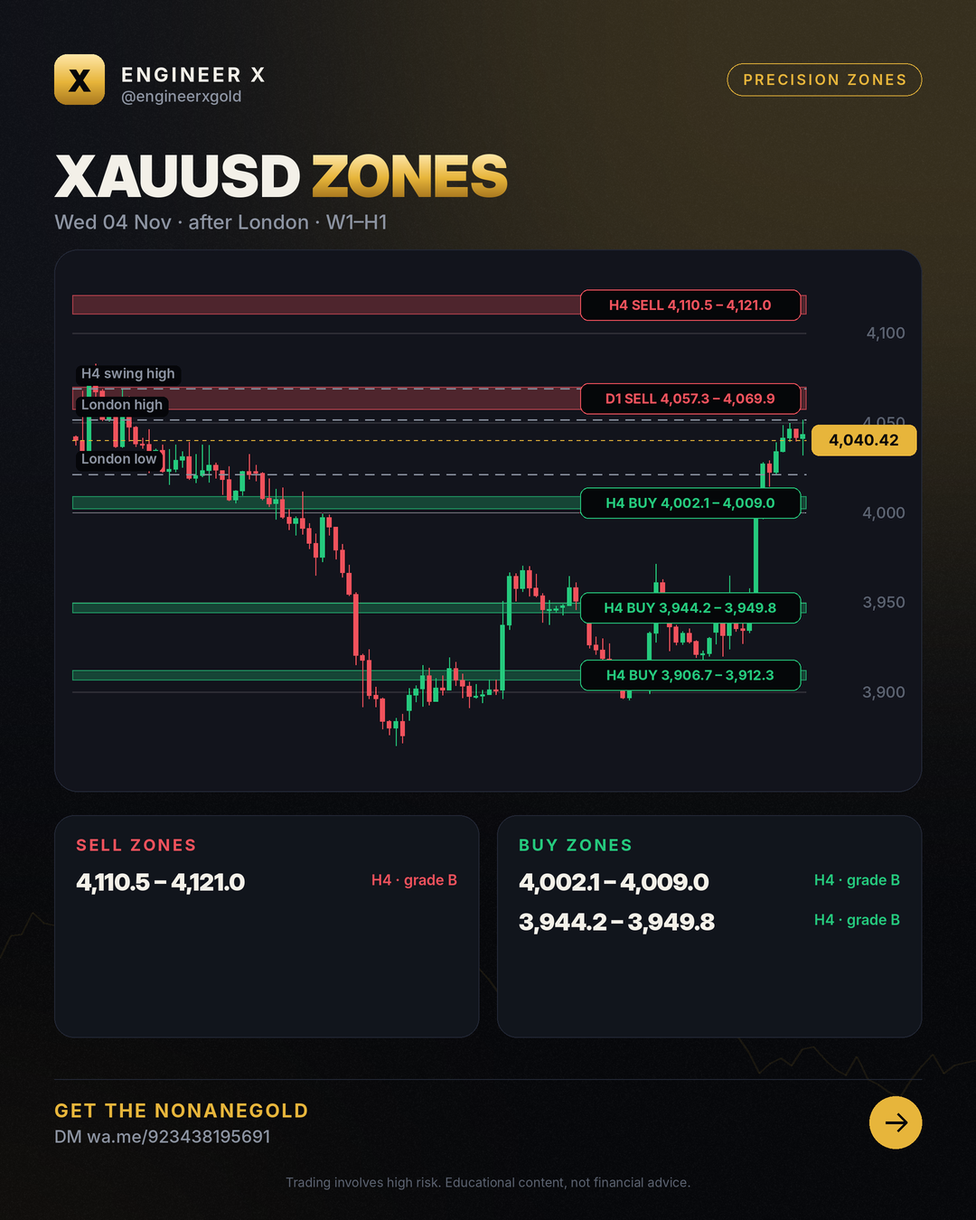
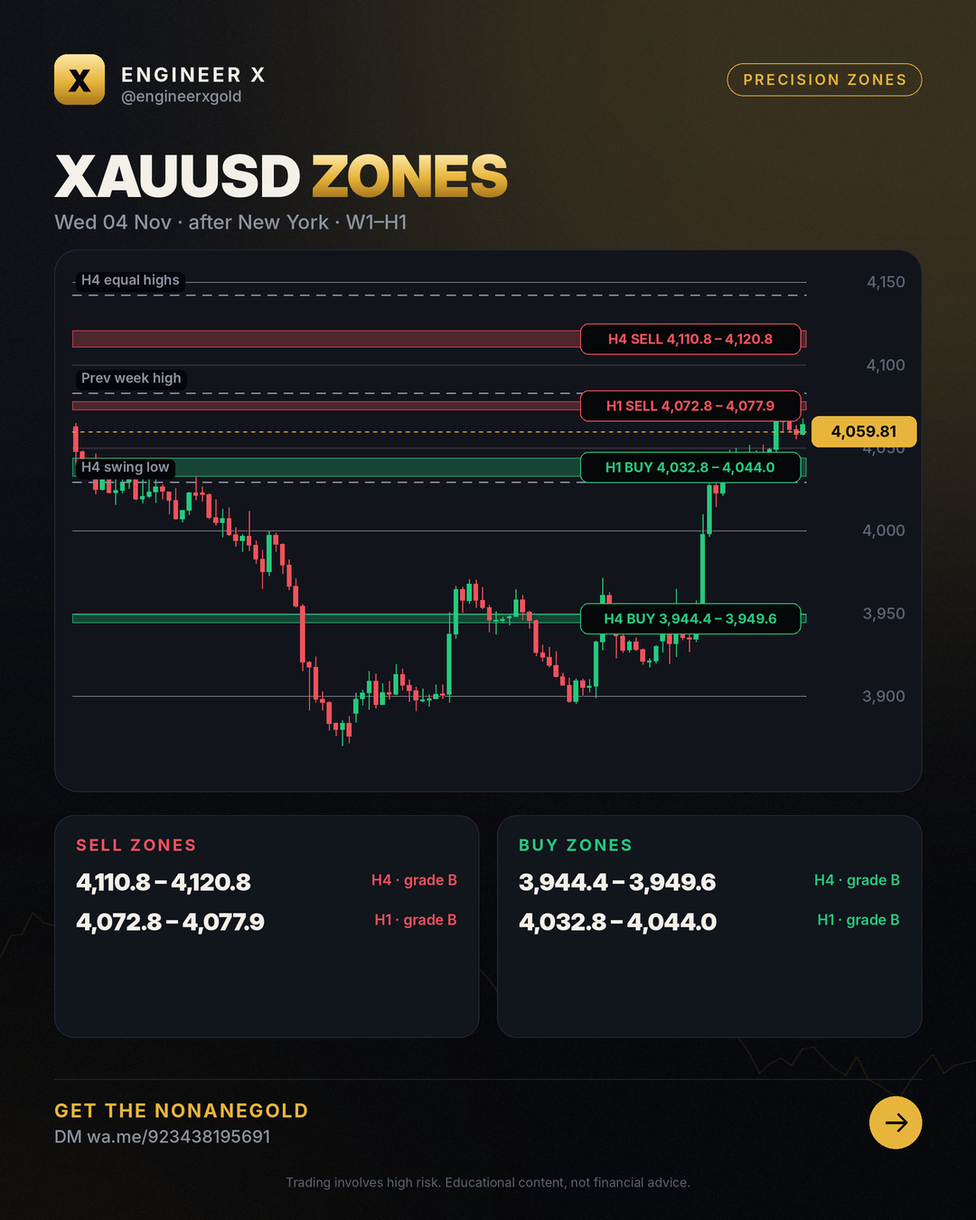
zones 2026-11-04 Wed 04 Nov · after New York · W1–H1

diff --git a/zones/index.html b/zones/index.html
@@ -4,7 +4,7 @@
 <meta charset="utf-8">
 <meta name="viewport" content="width=device-width,initial-scale=1">
 <title>XAUUSD Zones Today – Buy &amp; Sell Zones (H4, H1) | Engineer X</title>
-<meta name="description" content="XAUUSD buy and sell zones for 2026-11-04: tested W1, D1, H4 and H1 zones with invalidation levels, updated after the Asian, London and New York sessions. Price 4,040.42.">
+<meta name="description" content="XAUUSD buy and sell zones for 2026-11-04: tested W1, D1, H4 and H1 zones with invalidation levels, updated after the Asian, London and New York sessions. Price 4,059.81.">
 <meta name="robots" content="index,follow,max-image-preview:large,max-snippet:-1,max-video-preview:-1">
 <meta name="author" content="Engr. M Ahmad Mehmood">
 <link rel="canonical" href="https://engineerxgold.github.io/zones/">
@@ -12,7 +12,7 @@
 <link rel="apple-touch-icon" href="../img/logo.png">
 <meta property="og:site_name" content="Engineer X">
 <meta property="og:title" content="XAUUSD Zones Today – Buy &amp; Sell Zones (H4, H1) | Engineer X">
-<meta property="og:description" content="XAUUSD buy and sell zones for 2026-11-04: tested W1, D1, H4 and H1 zones with invalidation levels, updated after the Asian, London and New York sessions. Price 4,040.42.">
+<meta property="og:description" content="XAUUSD buy and sell zones for 2026-11-04: tested W1, D1, H4 and H1 zones with invalidation levels, updated after the Asian, London and New York sessions. Price 4,059.81.">
 <meta property="og:type" content="website">
 <meta property="og:url" content="https://engineerxgold.github.io/zones/">
 <meta property="og:image" content="https://engineerxgold.github.io/zones/img/2026-11-04.png">
@@ -22,7 +22,7 @@
 <meta property="og:locale" content="en_US">
 <meta name="twitter:card" content="summary_large_image">
 <meta name="twitter:title" content="XAUUSD Zones Today – Buy &amp; Sell Zones (H4, H1) | Engineer X">
-<meta name="twitter:description" content="XAUUSD buy and sell zones for 2026-11-04: tested W1, D1, H4 and H1 zones with invalidation levels, updated after the Asian, London and New York sessions. Price 4,040.42.">
+<meta name="twitter:description" content="XAUUSD buy and sell zones for 2026-11-04: tested W1, D1, H4 and H1 zones with invalidation levels, updated after the Asian, London and New York sessions. Price 4,059.81.">
 <meta name="twitter:image" content="https://engineerxgold.github.io/zones/img/2026-11-04.png">
 <meta name="twitter:image:alt" content="XAUUSD Zones Today – Buy &amp; Sell Zones (H4, H1) | Engineer X">
 
@@ -101,7 +101,7 @@ footer .fl a{color:var(--muted);margin-right:16px}
 <div class="wrap">
 <nav><a class="logo" href="../"><b>X</b>Engineer X</a>
 <div class="links"><a href="../zones/">Daily Zones</a><a href="../blog/">Learn</a><a href="../ea/">Gold EA</a><a href="../about/">About</a><a class="cta" href="https://wa.me/923438195691">Get the EA</a></div></nav>
-<section class="hero"><span class="chip">Updated Wed 04 Nov · after London · W1–H1</span><h1>XAUUSD <span class="gold">precision zones</span></h1><p>XAUUSD buy and sell zones for 2026-11-04: tested W1, D1, H4 and H1 zones with invalidation levels, updated after the Asian, London and New York sessions. Price 4,040.42.</p></section><img src="img/2026-11-04.png" alt="Latest XAUUSD zone map" width="1080" height="1350"><section><h2>Current zones</h2><div style="overflow-x:auto"><table style="width:100%;border-collapse:collapse;font-size:15px"><tr><th align=left>Zone</th><th align=left>Price band</th><th>Grade</th><th align=left>Invalid</th><th align=left>Why</th></tr><tr><td>D1 sell</td><td><b>4,057.33 – 4,069.94</b></td><td>B</td><td>above 4,071.80</td><td>MSNR resistance levels (fresh): D OCL 4060.13, D A 4067.14, 1H A 4062.57, 30m GAP 4062.57, 30m A 4066.13, 15m A 4062.57. Wrong if price trades above 4071.80.; C</td></tr><tr><td>H4 sell</td><td><b>4,110.54 – 4,121.03</b></td><td>B</td><td>above 4,122.89</td><td>MSNR resistance levels (fresh): 4H GAP 4113.34, 1H OCL 4115.24, 1H A 4116.26, 30m A 4118.23. Wrong if price trades above 4122.89.; Confluence score 3: MSNR + IC</td></tr><tr><td>H4 buy</td><td><b>4,002.12 – 4,008.98</b></td><td>B</td><td>below 4,000.26</td><td>MSNR support levels (fresh): 4H RBS 4004.92, 15m GAP 4006.18. Wrong if price trades below 4000.26.; Confluence score 2: MSNR + ICT</td></tr><tr><td>H4 buy</td><td><b>3,944.20 – 3,949.80</b></td><td>B</td><td>below 3,942.34</td><td>MSNR support level (fresh): 4H GAP 3947.00. Wrong if price trades below 3942.34.; Confluence score 2: MSNR + ICT</td></tr><tr><td>H4 buy</td><td><b>3,906.69 – 3,912.29</b></td><td>B</td><td>below 3,904.83</td><td>MSNR support level (fresh): 4H V 3909.49. Wrong if price trades below 3904.83.; Confluence score 2: MSNR + SMC</td></tr></table></div></section><section><h2>Honest scorecard</h2><div class="grid"><div class="card"><div class="n">237</div><p>zones published (30 days)</p></div><div class="card"><div class="n">125</div><p>held (moved 1 hourly ATR away)</p></div><div class="card"><div class="n">24</div><p>broke (traded beyond the invalidation)</p></div><div class="card"><div class="n">84%</div><p>hold rate of decided zones</p></div></div></section><div class="ctabox"><h3>🤖 Trade the zones with the NonaneGold</h3><p>Free signals group access + setup help Message us and we will help you set it up.</p><div class="btns"><a class="btn gold" href="https://wa.me/923438195691">Get the EA on Telegram</a><a class="btn ghost" href="../ea/">About the EA</a></div></div><section><h2>Archive</h2><div class="grid posts"><a class="card" href="2026-11-04/"><span class="date">2026-11-04</span><h3>XAUUSD zones 2026-11-04</h3></a><a class="card" href="2026-11-03/"><span class="date">2026-11-03</span><h3>XAUUSD zones 2026-11-03</h3></a><a class="card" href="2026-11-02/"><span class="date">2026-11-02</span><h3>XAUUSD zones 2026-11-02</h3></a><a class="card" href="2026-10-30/"><span class="date">2026-10-30</span><h3>XAUUSD zones 2026-10-30</h3></a><a class="card" href="2026-10-29/"><span class="date">2026-10-29</span><h3>XAUUSD zones 2026-10-29</h3></a><a class="card" href="2026-10-28/"><span class="date">2026-10-28</span><h3>XAUUSD zones 2026-10-28</h3></a><a class="card" href="2026-10-27/"><span class="date">2026-10-27</span><h3>XAUUSD zones 2026-10-27</h3></a><a class="card" href="2026-10-26/"><span class="date">2026-10-26</span><h3>XAUUSD zones 2026-10-26</h3></a><a class="card" href="2026-10-23/"><span class="date">2026-10-23</span><h3>XAUUSD zones 2026-10-23</h3></a><a class="card" href="2026-10-22/"><span class="date">2026-10-22</span><h3>XAUUSD zones 2026-10-22</h3></a><a class="card" href="2026-10-21/"><span class="date">2026-10-21</span><h3>XAUUSD zones 2026-10-21</h3></a><a class="card" href="2026-10-20/"><span class="date">2026-10-20</span><h3>XAUUSD zones 2026-10-20</h3></a><a class="card" href="2026-10-19/"><span class="date">2026-10-19</span><h3>XAUUSD zones 2026-10-19</h3></a><a class="card" href="2026-10-16/"><span class="date">2026-10-16</span><h3>XAUUSD zones 2026-10-16</h3></a><a class="card" href="2026-10-15/"><span class="date">2026-10-15</span><h3>XAUUSD zones 2026-10-15</h3></a><a class="card" href="2026-10-14/"><span class="date">2026-10-14</span><h3>XAUUSD zones 2026-10-14</h3></a><a class="card" href="2026-10-13/"><span class="date">2026-10-13</span><h3>XAUUSD zones 2026-10-13</h3></a></div></section>
+<section class="hero"><span class="chip">Updated Wed 04 Nov · after New York · W1–H1</span><h1>XAUUSD <span class="gold">precision zones</span></h1><p>XAUUSD buy and sell zones for 2026-11-04: tested W1, D1, H4 and H1 zones with invalidation levels, updated after the Asian, London and New York sessions. Price 4,059.81.</p></section><img src="img/2026-11-04.png" alt="Latest XAUUSD zone map" width="1080" height="1350"><section><h2>Current zones</h2><div style="overflow-x:auto"><table style="width:100%;border-collapse:collapse;font-size:15px"><tr><th align=left>Zone</th><th align=left>Price band</th><th>Grade</th><th align=left>Invalid</th><th align=left>Why</th></tr><tr><td>H4 sell</td><td><b>4,110.78 – 4,120.79</b></td><td>B</td><td>above 4,122.50</td><td>MSNR resistance levels (fresh): 4H GAP 4113.34, 1H OCL 4115.24, 1H A 4116.26, 30m A 4118.23. Wrong if price trades above 4122.50.; Confluence score 3: MSNR + IC</td></tr><tr><td>H1 sell</td><td><b>4,072.76 – 4,077.88</b></td><td>B</td><td>above 4,079.59</td><td>MSNR resistance levels (fresh): 1H A 4075.32, 30m A 4075.32, 15m A 4075.32. Wrong if price trades above 4079.59.; Confluence score 4: MSNR + WYK + CRT + LIQ</td></tr><tr><td>H1 buy</td><td><b>4,032.80 – 4,043.99</b></td><td>B</td><td>below 4,031.09</td><td>MSNR support levels (fresh): 1H V 4037.59, 30m V 4035.36, 30m V 4041.43, 15m GAP 4035.36, 15m V 4041.43. Wrong if price trades below 4031.09.; Confluence score </td></tr><tr><td>H4 buy</td><td><b>3,944.44 – 3,949.56</b></td><td>B</td><td>below 3,942.73</td><td>MSNR support level (fresh): 4H GAP 3947.00. Wrong if price trades below 3942.73.; Confluence score 2: MSNR + ICT</td></tr></table></div></section><section><h2>Honest scorecard</h2><div class="grid"><div class="card"><div class="n">242</div><p>zones published (30 days)</p></div><div class="card"><div class="n">128</div><p>held (moved 1 hourly ATR away)</p></div><div class="card"><div class="n">25</div><p>broke (traded beyond the invalidation)</p></div><div class="card"><div class="n">84%</div><p>hold rate of decided zones</p></div></div></section><div class="ctabox"><h3>🤖 Trade the zones with the NonaneGold</h3><p>Free signals group access + setup help Message us and we will help you set it up.</p><div class="btns"><a class="btn gold" href="https://wa.me/923438195691">Get the EA on Telegram</a><a class="btn ghost" href="../ea/">About the EA</a></div></div><section><h2>Archive</h2><div class="grid posts"><a class="card" href="2026-11-04/"><span class="date">2026-11-04</span><h3>XAUUSD zones 2026-11-04</h3></a><a class="card" href="2026-11-03/"><span class="date">2026-11-03</span><h3>XAUUSD zones 2026-11-03</h3></a><a class="card" href="2026-11-02/"><span class="date">2026-11-02</span><h3>XAUUSD zones 2026-11-02</h3></a><a class="card" href="2026-10-30/"><span class="date">2026-10-30</span><h3>XAUUSD zones 2026-10-30</h3></a><a class="card" href="2026-10-29/"><span class="date">2026-10-29</span><h3>XAUUSD zones 2026-10-29</h3></a><a class="card" href="2026-10-28/"><span class="date">2026-10-28</span><h3>XAUUSD zones 2026-10-28</h3></a><a class="card" href="2026-10-27/"><span class="date">2026-10-27</span><h3>XAUUSD zones 2026-10-27</h3></a><a class="card" href="2026-10-26/"><span class="date">2026-10-26</span><h3>XAUUSD zones 2026-10-26</h3></a><a class="card" href="2026-10-23/"><span class="date">2026-10-23</span><h3>XAUUSD zones 2026-10-23</h3></a><a class="card" href="2026-10-22/"><span class="date">2026-10-22</span><h3>XAUUSD zones 2026-10-22</h3></a><a class="card" href="2026-10-21/"><span class="date">2026-10-21</span><h3>XAUUSD zones 2026-10-21</h3></a><a class="card" href="2026-10-20/"><span class="date">2026-10-20</span><h3>XAUUSD zones 2026-10-20</h3></a><a class="card" href="2026-10-19/"><span class="date">2026-10-19</span><h3>XAUUSD zones 2026-10-19</h3></a><a class="card" href="2026-10-16/"><span class="date">2026-10-16</span><h3>XAUUSD zones 2026-10-16</h3></a><a class="card" href="2026-10-15/"><span class="date">2026-10-15</span><h3>XAUUSD zones 2026-10-15</h3></a><a class="card" href="2026-10-14/"><span class="date">2026-10-14</span><h3>XAUUSD zones 2026-10-14</h3></a><a class="card" href="2026-10-13/"><span class="date">2026-10-13</span><h3>XAUUSD zones 2026-10-13</h3></a></div></section>
 <footer>
 <div class="warn"><b>Risk warning:</b> Trading gold, forex and CFDs carries a high risk of losing money and is not suitable for everyone. Past results do not guarantee future results. Everything on this site is educational and not financial advice. We are an introducing partner of our broker and may earn a commission on accounts opened through our link.</div>
 <p class="fl" style="margin-top:18px"><a href="../about/">About &amp; methodology</a><a href="../privacy.html">Privacy</a><a href="../terms.html">Terms &amp; risk disclosure</a><a href="../feed.xml">RSS</a><a href="https://t.me/engineerxgold">Telegram</a></p>

diff --git a/zones/2026-11-04/index.html b/zones/2026-11-04/index.html
@@ -4,7 +4,7 @@
 <meta charset="utf-8">
 <meta name="viewport" content="width=device-width,initial-scale=1">
 <title>Gold Price Today In India – 04 Nov 2026 (W1–H1)</title>
-<meta name="description" content="XAUUSD buy and sell zones for 2026-11-04: tested W1, D1, H4 and H1 zones with invalidation levels, updated after the Asian, London and New York sessions. Price 4,040.42.">
+<meta name="description" content="XAUUSD buy and sell zones for 2026-11-04: tested W1, D1, H4 and H1 zones with invalidation levels, updated after the Asian, London and New York sessions. Price 4,059.81.">
 <meta name="robots" content="index,follow,max-image-preview:large,max-snippet:-1,max-video-preview:-1">
 <meta name="author" content="Engr. M Ahmad Mehmood">
 <link rel="canonical" href="https://engineerxgold.github.io/zones/2026-11-04/">
@@ -12,7 +12,7 @@
 <link rel="apple-touch-icon" href="../../img/logo.png">
 <meta property="og:site_name" content="Engineer X">
 <meta property="og:title" content="Gold Price Today In India – 04 Nov 2026 (W1–H1)">
-<meta property="og:description" content="XAUUSD buy and sell zones for 2026-11-04: tested W1, D1, H4 and H1 zones with invalidation levels, updated after the Asian, London and New York sessions. Price 4,040.42.">
+<meta property="og:description" content="XAUUSD buy and sell zones for 2026-11-04: tested W1, D1, H4 and H1 zones with invalidation levels, updated after the Asian, London and New York sessions. Price 4,059.81.">
 <meta property="og:type" content="article">
 <meta property="og:url" content="https://engineerxgold.github.io/zones/2026-11-04/">
 <meta property="og:image" content="https://engineerxgold.github.io/zones/img/2026-11-04.png">
@@ -22,7 +22,7 @@
 <meta property="og:locale" content="en_US">
 <meta name="twitter:card" content="summary_large_image">
 <meta name="twitter:title" content="Gold Price Today In India – 04 Nov 2026 (W1–H1)">
-<meta name="twitter:description" content="XAUUSD buy and sell zones for 2026-11-04: tested W1, D1, H4 and H1 zones with invalidation levels, updated after the Asian, London and New York sessions. Price 4,040.42.">
+<meta name="twitter:description" content="XAUUSD buy and sell zones for 2026-11-04: tested W1, D1, H4 and H1 zones with invalidation levels, updated after the Asian, London and New York sessions. Price 4,059.81.">
 <meta name="twitter:image" content="https://engineerxgold.github.io/zones/img/2026-11-04.png">
 <meta name="twitter:image:alt" content="Gold Price Today In India – 04 Nov 2026 (W1–H1)">
 
@@ -32,7 +32,7 @@
 <link rel="preconnect" href="https://fonts.googleapis.com">
 <link rel="preconnect" href="https://fonts.gstatic.com" crossorigin>
 <link href="https://fonts.googleapis.com/css2?family=Inter:wght@400;500;600;800;900&display=swap" rel="stylesheet">
-<script type="application/ld+json">{"@context": "https://schema.org", "@type": "Organization", "@id": "https://engineerxgold.github.io/#organization", "name": "Engineer X", "url": "https://engineerxgold.github.io/", "logo": {"@type": "ImageObject", "url": "https://engineerxgold.github.io/img/logo.png", "width": 512, "height": 512}, "sameAs": ["https://t.me/engineerxgold"]}</script><script type="application/ld+json">{"@context": "https://schema.org", "@type": "Article", "headline": "Gold Price Today In India – 04 Nov 2026 (W1–H1)", "datePublished": "2026-11-04T08:00:00+05:00", "dateModified": "2026-11-04T18:21:59+05:00", "author": {"@type": "Person", "@id": "https://engineerxgold.github.io/about/#author", "name": "Engr. M Ahmad Mehmood", "url": "https://engineerxgold.github.io/about/", "jobTitle": "MQL5 Expert Advisor developer and gold market analyst", "worksFor": {"@id": "https://engineerxgold.github.io/#organization"}}, "publisher": {"@id": "https://engineerxgold.github.io/#organization"}, "image": "https://engineerxgold.github.io/zones/img/2026-11-04.png", "mainEntityOfPage": "https://engineerxgold.github.io/zones/2026-11-04/"}</script>
+<script type="application/ld+json">{"@context": "https://schema.org", "@type": "Organization", "@id": "https://engineerxgold.github.io/#organization", "name": "Engineer X", "url": "https://engineerxgold.github.io/", "logo": {"@type": "ImageObject", "url": "https://engineerxgold.github.io/img/logo.png", "width": 512, "height": 512}, "sameAs": ["https://t.me/engineerxgold"]}</script><script type="application/ld+json">{"@context": "https://schema.org", "@type": "Article", "headline": "Gold Price Today In India – 04 Nov 2026 (W1–H1)", "datePublished": "2026-11-04T08:00:00+05:00", "dateModified": "2026-11-05T03:03:09+05:00", "author": {"@type": "Person", "@id": "https://engineerxgold.github.io/about/#author", "name": "Engr. M Ahmad Mehmood", "url": "https://engineerxgold.github.io/about/", "jobTitle": "MQL5 Expert Advisor developer and gold market analyst", "worksFor": {"@id": "https://engineerxgold.github.io/#organization"}}, "publisher": {"@id": "https://engineerxgold.github.io/#organization"}, "image": "https://engineerxgold.github.io/zones/img/2026-11-04.png", "mainEntityOfPage": "https://engineerxgold.github.io/zones/2026-11-04/"}</script>
 
 <style>
 :root{--gold:#E7B53B;--gold-hi:#FFE7A8;--bg:#07080B;--bg2:#0E1016;--panel:#12151D;--line:#232836;--green:#25C97D;--red:#F0525C;--text:#F3F0E8;--muted:#8C93A1}
@@ -101,7 +101,7 @@ footer .fl a{color:var(--muted);margin-right:16px}
 <div class="wrap">
 <nav><a class="logo" href="../../"><b>X</b>Engineer X</a>
 <div class="links"><a href="../../zones/">Daily Zones</a><a href="../../blog/">Learn</a><a href="../../ea/">Gold EA</a><a href="../../about/">About</a><a class="cta" href="https://wa.me/923438195691">Get the EA</a></div></nav>
-<article><p class="crumbs"><a href="../../">Home</a> › <a href="../">Zones</a> › 2026-11-04</p><h1>Gold Price Today In India – 04 Nov 2026 (W1–H1)</h1><p class="byline">Wed 04 Nov · after London · W1–H1 · by Engr. M Ahmad Mehmood</p><img src="../img/2026-11-04.png" alt="XAUUSD zone map 2026-11-04" width="1080" height="1350" loading="eager"><h2>Zones</h2><div style="overflow-x:auto"><table style="width:100%;border-collapse:collapse;font-size:15px"><tr><th align=left>Zone</th><th align=left>Price band</th><th>Grade</th><th align=left>Invalid</th><th align=left>Why</th></tr><tr><td>D1 sell</td><td><b>4,057.33 – 4,069.94</b></td><td>B</td><td>above 4,071.80</td><td>MSNR resistance levels (fresh): D OCL 4060.13, D A 4067.14, 1H A 4062.57, 30m GAP 4062.57, 30m A 4066.13, 15m A 4062.57. Wrong if price trades above 4071.80.; C</td></tr><tr><td>H4 sell</td><td><b>4,110.54 – 4,121.03</b></td><td>B</td><td>above 4,122.89</td><td>MSNR resistance levels (fresh): 4H GAP 4113.34, 1H OCL 4115.24, 1H A 4116.26, 30m A 4118.23. Wrong if price trades above 4122.89.; Confluence score 3: MSNR + IC</td></tr><tr><td>H4 buy</td><td><b>4,002.12 – 4,008.98</b></td><td>B</td><td>below 4,000.26</td><td>MSNR support levels (fresh): 4H RBS 4004.92, 15m GAP 4006.18. Wrong if price trades below 4000.26.; Confluence score 2: MSNR + ICT</td></tr><tr><td>H4 buy</td><td><b>3,944.20 – 3,949.80</b></td><td>B</td><td>below 3,942.34</td><td>MSNR support level (fresh): 4H GAP 3947.00. Wrong if price trades below 3942.34.; Confluence score 2: MSNR + ICT</td></tr><tr><td>H4 buy</td><td><b>3,906.69 – 3,912.29</b></td><td>B</td><td>below 3,904.83</td><td>MSNR support level (fresh): 4H V 3909.49. Wrong if price trades below 3904.83.; Confluence score 2: MSNR + SMC</td></tr></table></div><h2>How to read this map</h2><p>Bands are where price is expected to react; they are not entries. Trading beyond the invalidation price ends the zone; each zone counts once (first touch). Highs and lows listed as liquidity are targets: on 10 years of gold price ran through them more often than through random levels.</p><div class="ctabox"><h3>🤖 Trade the zones with the NonaneGold</h3><p>Free signals group access + setup help Message us and we will help you set it up.</p><div class="btns"><a class="btn gold" href="https://wa.me/923438195691">Get the EA on Telegram</a><a class="btn ghost" href="../../ea/">About the EA</a></div></div></article>
+<article><p class="crumbs"><a href="../../">Home</a> › <a href="../">Zones</a> › 2026-11-04</p><h1>Gold Price Today In India – 04 Nov 2026 (W1–H1)</h1><p class="byline">Wed 04 Nov · after New York · W1–H1 · by Engr. M Ahmad Mehmood</p><img src="../img/2026-11-04.png" alt="XAUUSD zone map 2026-11-04" width="1080" height="1350" loading="eager"><h2>Zones</h2><div style="overflow-x:auto"><table style="width:100%;border-collapse:collapse;font-size:15px"><tr><th align=left>Zone</th><th align=left>Price band</th><th>Grade</th><th align=left>Invalid</th><th align=left>Why</th></tr><tr><td>H4 sell</td><td><b>4,110.78 – 4,120.79</b></td><td>B</td><td>above 4,122.50</td><td>MSNR resistance levels (fresh): 4H GAP 4113.34, 1H OCL 4115.24, 1H A 4116.26, 30m A 4118.23. Wrong if price trades above 4122.50.; Confluence score 3: MSNR + IC</td></tr><tr><td>H1 sell</td><td><b>4,072.76 – 4,077.88</b></td><td>B</td><td>above 4,079.59</td><td>MSNR resistance levels (fresh): 1H A 4075.32, 30m A 4075.32, 15m A 4075.32. Wrong if price trades above 4079.59.; Confluence score 4: MSNR + WYK + CRT + LIQ</td></tr><tr><td>H1 buy</td><td><b>4,032.80 – 4,043.99</b></td><td>B</td><td>below 4,031.09</td><td>MSNR support levels (fresh): 1H V 4037.59, 30m V 4035.36, 30m V 4041.43, 15m GAP 4035.36, 15m V 4041.43. Wrong if price trades below 4031.09.; Confluence score </td></tr><tr><td>H4 buy</td><td><b>3,944.44 – 3,949.56</b></td><td>B</td><td>below 3,942.73</td><td>MSNR support level (fresh): 4H GAP 3947.00. Wrong if price trades below 3942.73.; Confluence score 2: MSNR + ICT</td></tr></table></div><h2>How to read this map</h2><p>Bands are where price is expected to react; they are not entries. Trading beyond the invalidation price ends the zone; each zone counts once (first touch). Highs and lows listed as liquidity are targets: on 10 years of gold price ran through them more often than through random levels.</p><div class="ctabox"><h3>🤖 Trade the zones with the NonaneGold</h3><p>Free signals group access + setup help Message us and we will help you set it up.</p><div class="btns"><a class="btn gold" href="https://wa.me/923438195691">Get the EA on Telegram</a><a class="btn ghost" href="../../ea/">About the EA</a></div></div></article>
 <footer>
 <div class="warn"><b>Risk warning:</b> Trading gold, forex and CFDs carries a high risk of losing money and is not suitable for everyone. Past results do not guarantee future results. Everything on this site is educational and not financial advice. We are an introducing partner of our broker and may earn a commission on accounts opened through our link.</div>
 <p class="fl" style="margin-top:18px"><a href="../../about/">About &amp; methodology</a><a href="../../privacy.html">Privacy</a><a href="../../terms.html">Terms &amp; risk disclosure</a><a href="../../feed.xml">RSS</a><a href="https://t.me/engineerxgold">Telegram</a></p>

diff --git a/index.html b/index.html
@@ -101,7 +101,7 @@ footer .fl a{color:var(--muted);margin-right:16px}
 <div class="wrap">
 <nav><a class="logo" href="./"><b>X</b>Engineer X</a>
 <div class="links"><a href="./zones/">Daily Zones</a><a href="./blog/">Learn</a><a href="./ea/">Gold EA</a><a href="./about/">About</a><a class="cta" href="https://wa.me/923438195691">Get the EA</a></div></nav>
-<section class="hero"><span class="chip">XAUUSD · W1–H1 · every session</span><h1>Gold <span class="gold">precision zones</span>, updated after every session</h1><p>Tested buy and sell zones with clear invalidation, a scorecard of every result, and the NonaneGold for traders who want it automated.</p><div class="btns"><a class="btn gold" href="zones/">See today's zones</a><a class="btn ghost" href="https://wa.me/923438195691">Get the EA</a></div></section><section><h2>Latest map Wed 04 Nov · after London · W1–H1</h2><img src="zones/img/2026-11-04.png" alt="Latest XAUUSD zones" width="1080" height="1350"></section><div class="ctabox"><h3>🤖 Trade the zones with the NonaneGold</h3><p>Free signals group access + setup help Message us and we will help you set it up.</p><div class="btns"><a class="btn gold" href="https://wa.me/923438195691">Get the EA on Telegram</a><a class="btn ghost" href="ea/">About the EA</a></div></div><section><h2>Learn</h2><div class="grid posts"><a class="card" href="blog/gold-supply-and-demand-zones-h4-h1-map-analysis/"><span class="date">2026-11-04</span><h3>Gold Supply and Demand Zones: H4 &amp; H1 Map Analysis</h3></a><a class="card" href="blog/gold-support-resistance-today-s-map-key-zones/"><span class="date">2026-11-03</span><h3>Gold Support Resistance: Today&#x27;s Map &amp; Key Zones</h3></a><a class="card" href="blog/gold-supply-and-demand-zones-h4-setup-levels/"><span class="date">2026-11-01</span><h3>Gold Supply and Demand Zones: H4 Setup &amp; Levels</h3></a><a class="card" href="blog/gold-supply-and-demand-zones-h4-h1-trading-map-2026-10-31/"><span class="date">2026-10-31</span><h3>Gold Supply and Demand Zones: H4 &amp; H1 Trading Map</h3></a><a class="card" href="blog/gold-price-today-live-technical-levels-zone-map/"><span class="date">2026-10-30</span><h3>Gold Price Today: Live Technical Levels &amp; Zone Map</h3></a><a class="card" href="blog/gold-trading-h4-trend-zones-liquidity-map/"><span class="date">2026-10-29</span><h3>Gold Trading: H4 Trend Zones &amp; Liquidity Map</h3></a></div></section><section><h2>FAQ</h2><details><summary>What is a precision zone?</summary><p>A point of interest from a trading book (OTE 0.705, balanced price range, weekly close level, daily order block) that held better than random levels on 10 years of gold. Each zone has an invalidation price.</p></details><details><summary>How often are the zones updated?</summary><p>A daily plan at the Asian open, then after the Asian, London and New York sessions.</p></details><details><summary>Are these trade signals?</summary><p>No. Zones are areas to watch. Wait for your own confirmation and manage risk.</p></details><details><summary>How do I get the Gold EA?</summary><p>Message us on Telegram or WhatsApp; we answer and help with the setup.</p></details></section>
+<section class="hero"><span class="chip">XAUUSD · W1–H1 · every session</span><h1>Gold <span class="gold">precision zones</span>, updated after every session</h1><p>Tested buy and sell zones with clear invalidation, a scorecard of every result, and the NonaneGold for traders who want it automated.</p><div class="btns"><a class="btn gold" href="zones/">See today's zones</a><a class="btn ghost" href="https://wa.me/923438195691">Get the EA</a></div></section><section><h2>Latest map Wed 04 Nov · after New York · W1–H1</h2><img src="zones/img/2026-11-04.png" alt="Latest XAUUSD zones" width="1080" height="1350"></section><div class="ctabox"><h3>🤖 Trade the zones with the NonaneGold</h3><p>Free signals group access + setup help Message us and we will help you set it up.</p><div class="btns"><a class="btn gold" href="https://wa.me/923438195691">Get the EA on Telegram</a><a class="btn ghost" href="ea/">About the EA</a></div></div><section><h2>Learn</h2><div class="grid posts"><a class="card" href="blog/gold-supply-and-demand-zones-h4-h1-map-analysis/"><span class="date">2026-11-04</span><h3>Gold Supply and Demand Zones: H4 &amp; H1 Map Analysis</h3></a><a class="card" href="blog/gold-support-resistance-today-s-map-key-zones/"><span class="date">2026-11-03</span><h3>Gold Support Resistance: Today&#x27;s Map &amp; Key Zones</h3></a><a class="card" href="blog/gold-supply-and-demand-zones-h4-setup-levels/"><span class="date">2026-11-01</span><h3>Gold Supply and Demand Zones: H4 Setup &amp; Levels</h3></a><a class="card" href="blog/gold-supply-and-demand-zones-h4-h1-trading-map-2026-10-31/"><span class="date">2026-10-31</span><h3>Gold Supply and Demand Zones: H4 &amp; H1 Trading Map</h3></a><a class="card" href="blog/gold-price-today-live-technical-levels-zone-map/"><span class="date">2026-10-30</span><h3>Gold Price Today: Live Technical Levels &amp; Zone Map</h3></a><a class="card" href="blog/gold-trading-h4-trend-zones-liquidity-map/"><span class="date">2026-10-29</span><h3>Gold Trading: H4 Trend Zones &amp; Liquidity Map</h3></a></div></section><section><h2>FAQ</h2><details><summary>What is a precision zone?</summary><p>A point of interest from a trading book (OTE 0.705, balanced price range, weekly close level, daily order block) that held better than random levels on 10 years of gold. Each zone has an invalidation price.</p></details><details><summary>How often are the zones updated?</summary><p>A daily plan at the Asian open, then after the Asian, London and New York sessions.</p></details><details><summary>Are these trade signals?</summary><p>No. Zones are areas to watch. Wait for your own confirmation and manage risk.</p></details><details><summary>How do I get the Gold EA?</summary><p>Message us on Telegram or WhatsApp; we answer and help with the setup.</p></details></section>
 <footer>
 <div class="warn"><b>Risk warning:</b> Trading gold, forex and CFDs carries a high risk of losing money and is not suitable for everyone. Past results do not guarantee future results. Everything on this site is educational and not financial advice. We are an introducing partner of our broker and may earn a commission on accounts opened through our link.</div>
 <p class="fl" style="margin-top:18px"><a href="./about/">About &amp; methodology</a><a href="./privacy.html">Privacy</a><a href="./terms.html">Terms &amp; risk disclosure</a><a href="./feed.xml">RSS</a><a href="https://t.me/engineerxgold">Telegram</a></p>
